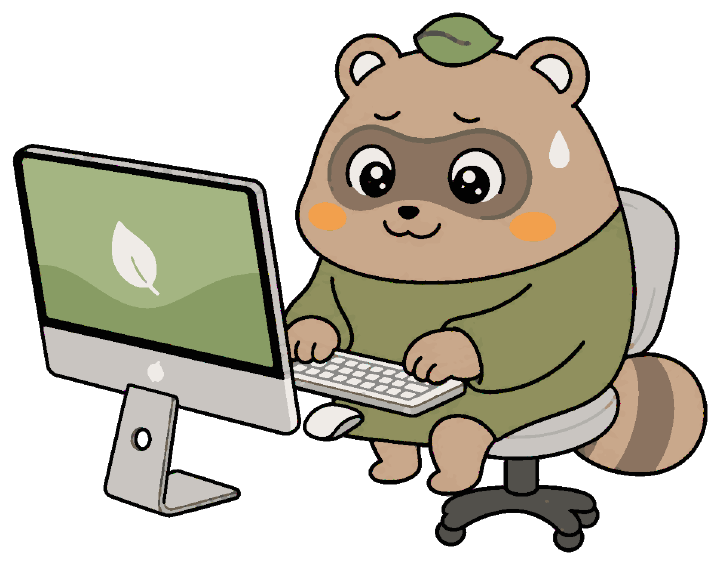
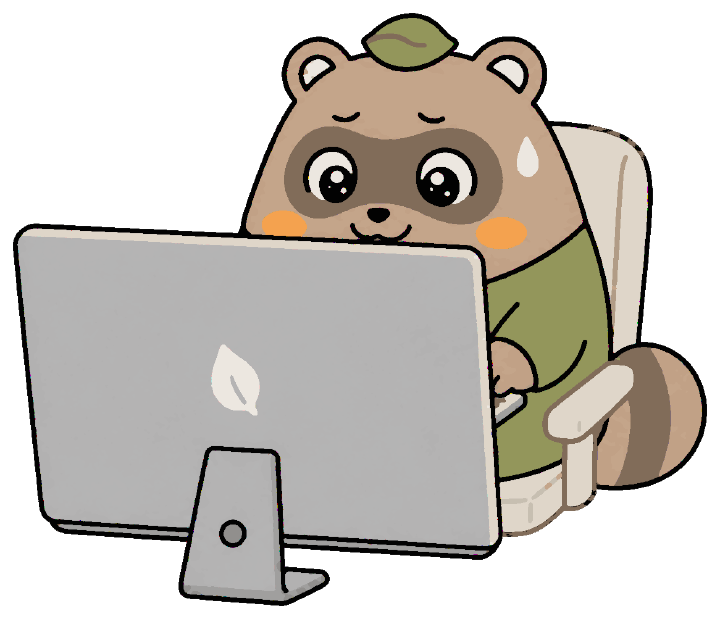
fix: 仕事絵は作業ごとにランダム切替し、デスクトップは背面がグレーのiMacにする

diff --git a/ui/index.html b/ui/index.html
@@ -41,13 +41,10 @@
     display: none;
   }
   .idle .char-sleep { display: block; animation: sleep 3.6s ease-in-out infinite; }
-  .working .char-work-a,
-  .working .char-work-b { display: block; }
-  .working .char-work-a {
-    animation: work-bob 1.1s ease-in-out infinite, work-swap-a 8s ease-in-out infinite;
-  }
-  .working .char-work-b {
-    animation: work-bob 1.1s ease-in-out infinite, work-swap-b 8s ease-in-out infinite;
+  .working.pose-laptop .char-work-a,
+  .working.pose-desk .char-work-b {
+    display: block;
+    animation: work-bob 1.1s ease-in-out infinite;
   }
 
   @keyframes sleep {
@@ -57,16 +54,6 @@
   @keyframes work-bob {
     0%, 100% { transform: translateY(0) rotate(-1.5deg); }
     50% { transform: translateY(-8px) rotate(1.5deg); }
-  }
-  @keyframes work-swap-a {
-    0%, 40% { opacity: 1; }
-    50%, 90% { opacity: 0; }
-    100% { opacity: 1; }
-  }
-  @keyframes work-swap-b {
-    0%, 40% { opacity: 0; }
-    50%, 90% { opacity: 1; }
-    100% { opacity: 0; }
   }
 
   .line {
@@ -88,9 +75,9 @@
 <body>
 <div class="stage idle" id="stage">
   <div class="char-wrap">
-    <img class="char char-sleep" src="/hosshy-sleep.png?v=7" alt="" />
-    <img class="char char-work-a" src="/hosshy-work.png?v=7" alt="" />
-    <img class="char char-work-b" src="/hosshy-work-desk.png?v=7" alt="" />
+    <img class="char char-sleep" src="/hosshy-sleep.png?v=8" alt="" />
+    <img class="char char-work-a" src="/hosshy-work.png?v=8" alt="" />
+    <img class="char char-work-b" src="/hosshy-work-desk.png?v=8" alt="" />
   </div>
   <div class="line" id="line">zzz…</div>
   <div class="detail" id="detail"></div>
@@ -106,7 +93,8 @@ function vis(state) {
 
 function apply(data) {
   const state = vis(data.state);
-  stage.className = "stage " + state;
+  const pose = data.pose === "desk" ? "desk" : "laptop";
+  stage.className = "stage " + state + (state === "working" ? " pose-" + pose : "");
   if (state === "working") {
     lineEl.textContent = data.line || "仕事してるよ…";
     detailEl.textContent = data.detail || "";

diff --git a/mcp-server/status.py b/mcp-server/status.py
@@ -4,22 +4,33 @@ from __future__ import annotations
 
 import json
 import os
+import random
 from datetime import datetime
 
 STATUS_PATH = "/tmp/hossy_status.json"
+WORK_POSES = ("laptop", "desk")
 
 IDLE = {
     "state": "idle",
     "line": "zzz…",
     "detail": "",
+    "pose": "laptop",
 }
 
 
 def set_status(state: str, line: str, detail: str = "") -> None:
+    prev = read_status()
+    if state == "working":
+        pose = prev.get("pose") if prev.get("state") == "working" else random.choice(WORK_POSES)
+        if pose not in WORK_POSES:
+            pose = "laptop"
+    else:
+        pose = prev.get("pose") if prev.get("pose") in WORK_POSES else "laptop"
     payload = {
         "state": state,
         "line": line,
         "detail": detail,
+        "pose": pose,
         "updated_at": datetime.now().strftime("%H:%M:%S"),
     }
     tmp = STATUS_PATH + ".tmp"
